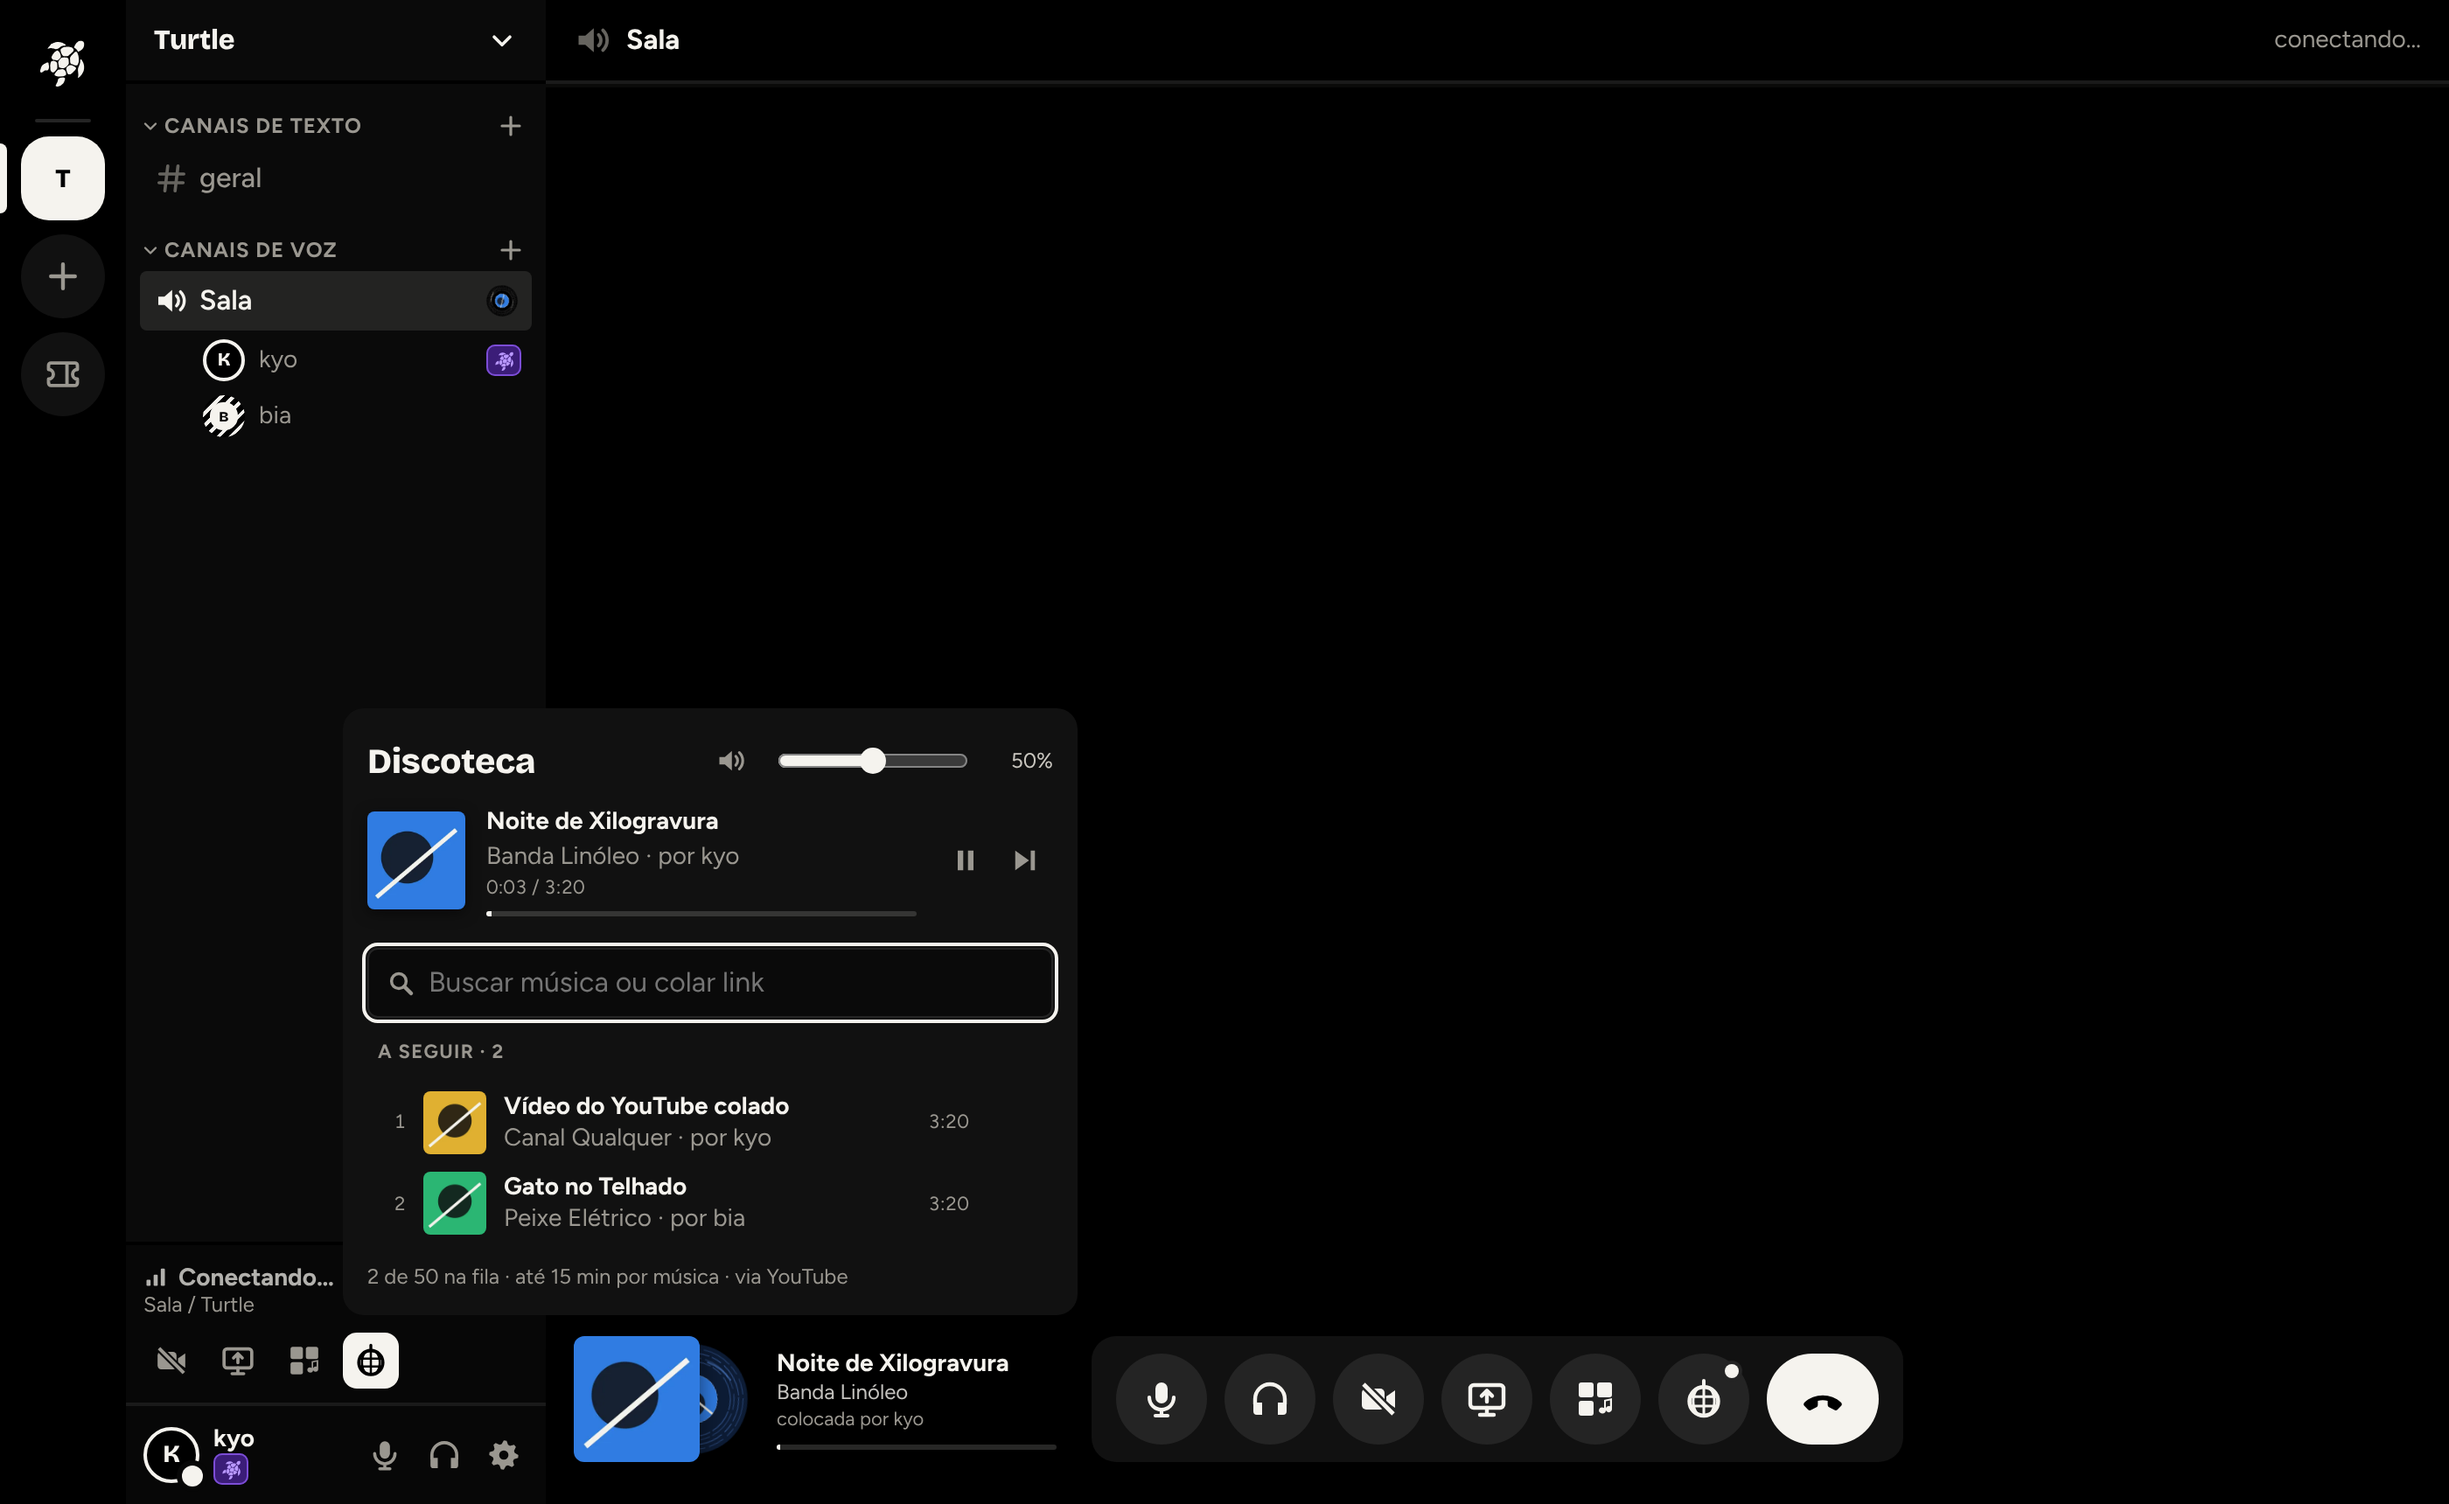
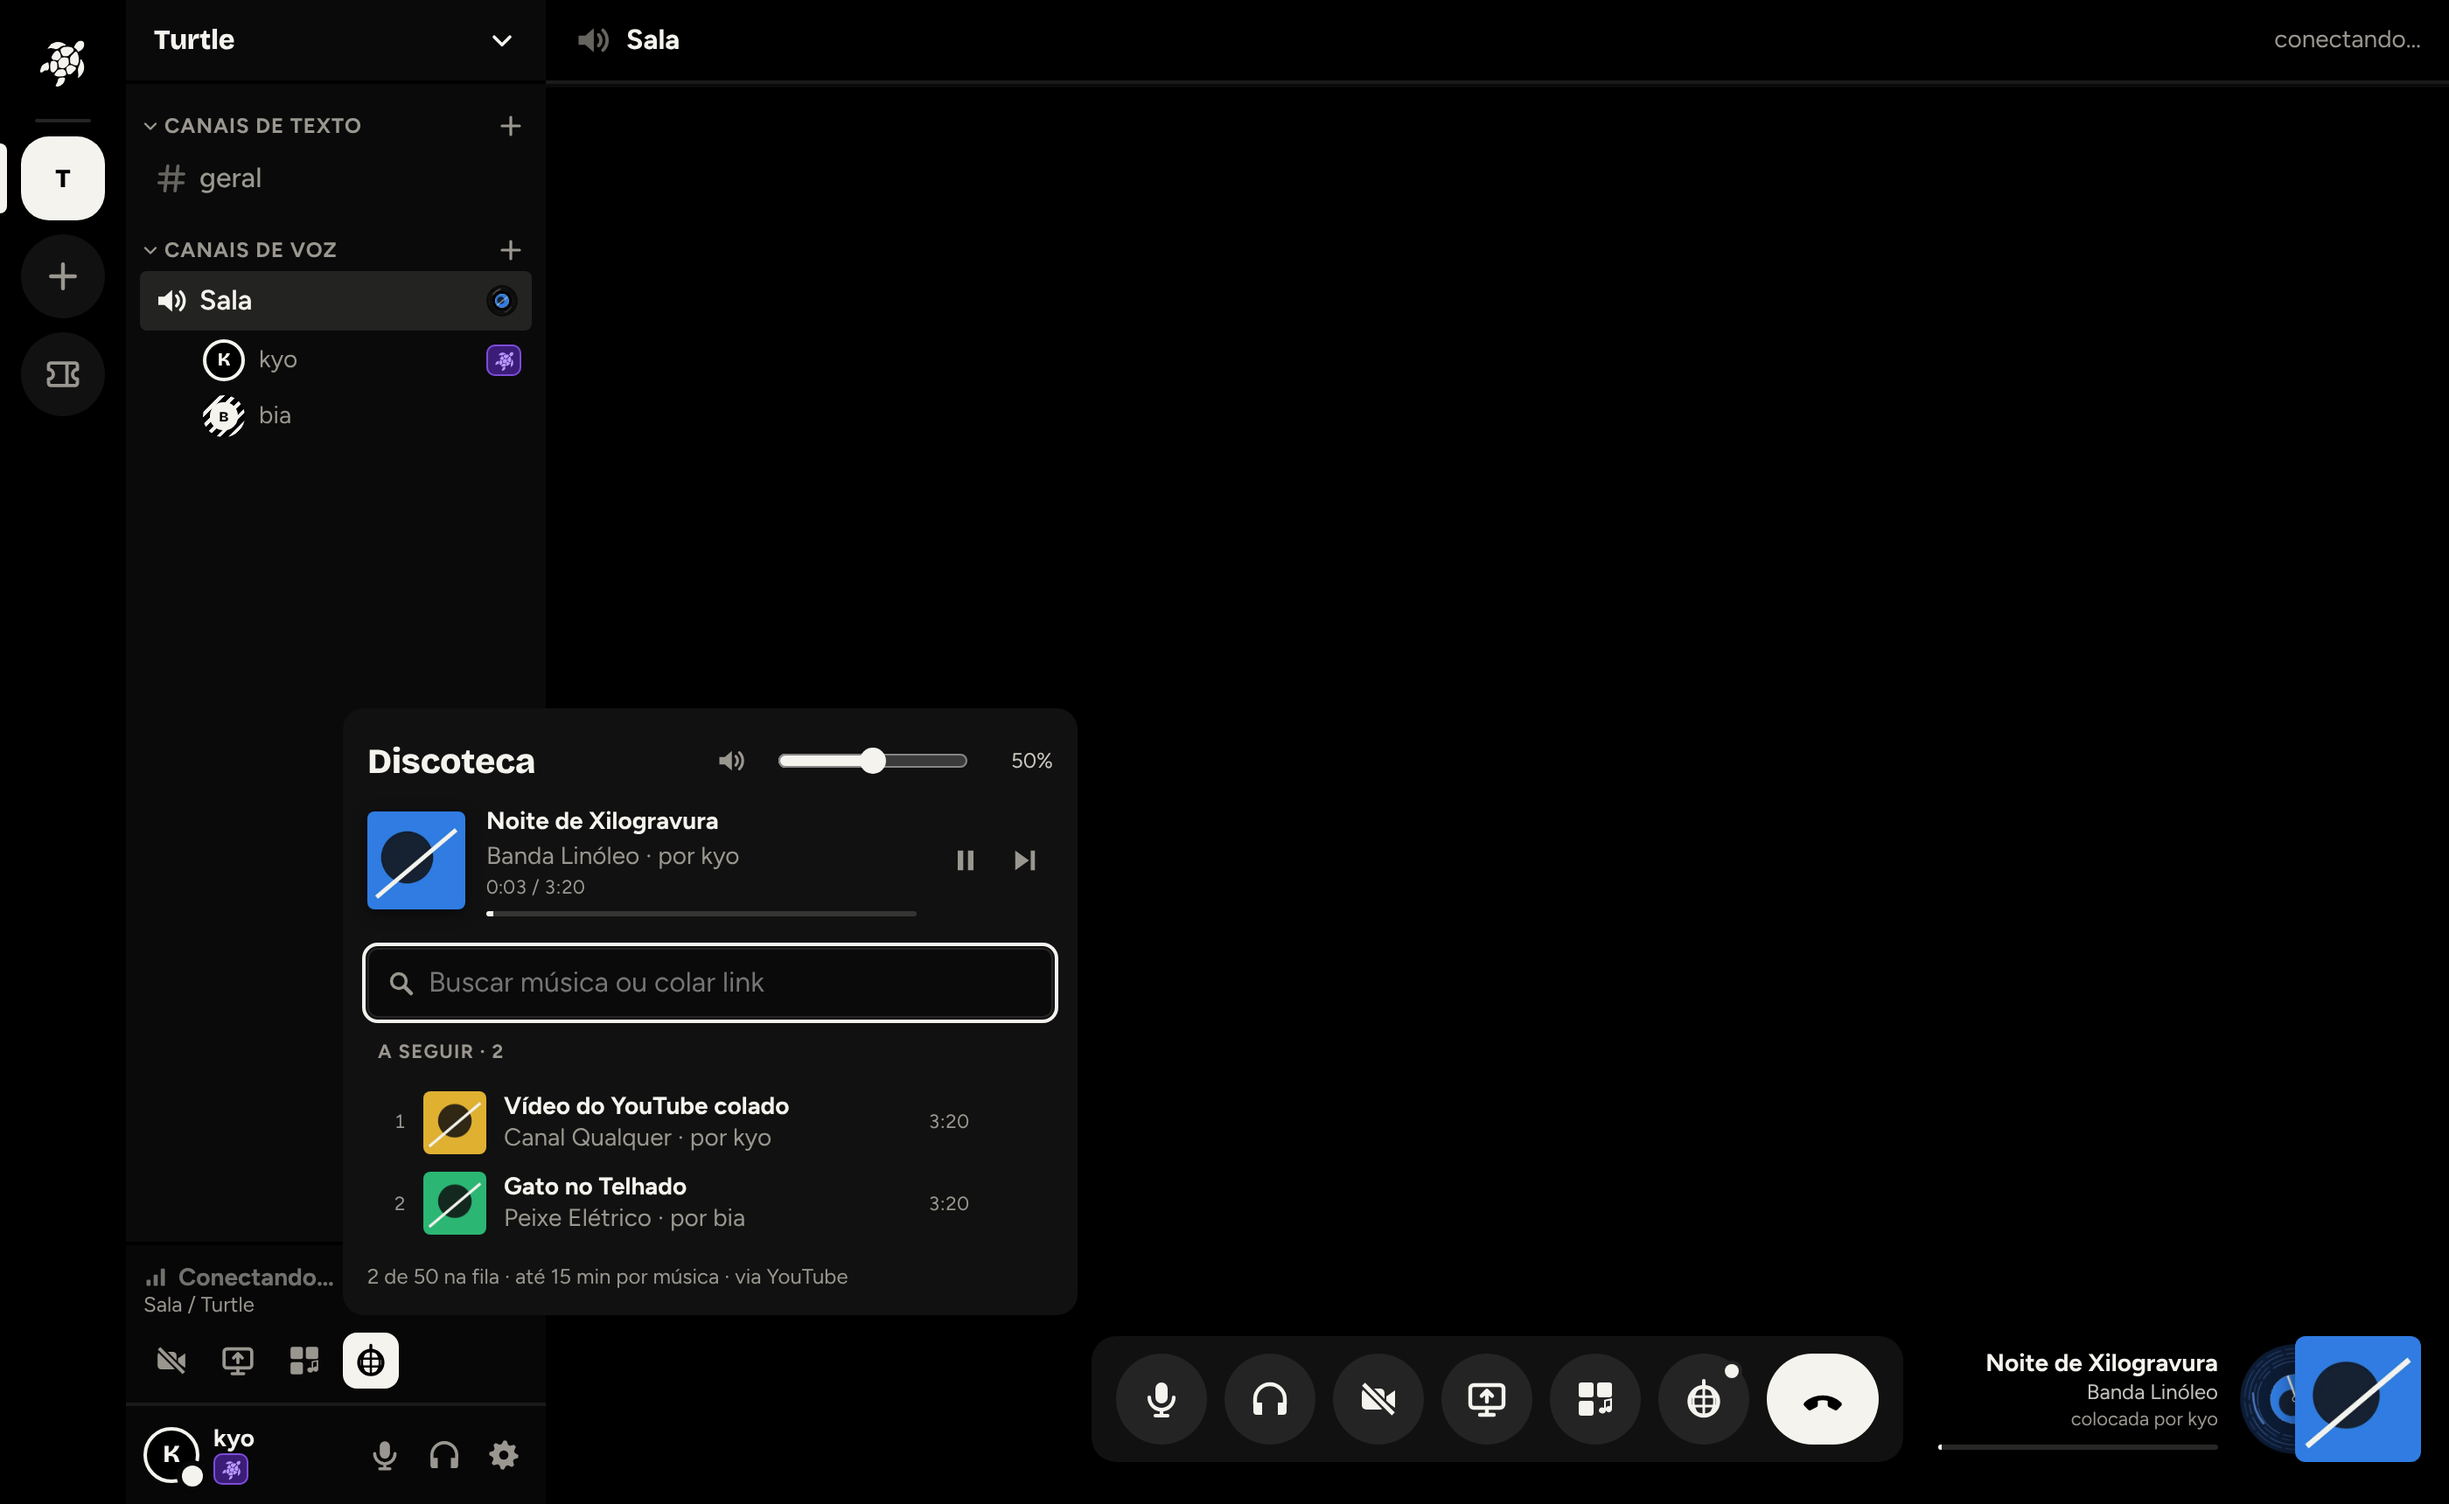
Discoteca: cartão da música no lado direito da chamada, espelhado (capa na borda, vinil para a esquerda)
Claude-Session: https://claude.ai/code/session_01NDwkfk8MRjn5FevcBrvuh5

Changed region(s): [[0.8079, 0.8628, 0.9943, 0.986], [0.2175, 0.8628, 0.4039, 0.986], [0.0621, 0.832, 0.1243, 0.8628]]

diff --git a/apps/client/src/styles.css b/apps/client/src/styles.css
@@ -1067,7 +1067,7 @@ a.auth-brand { text-decoration: none; }
 .call { container-type: inline-size; }
 .call-dock { display: grid; grid-template-columns: minmax(0, 1fr) auto minmax(0, 1fr); align-items: end; column-gap: 16px; padding: 0 16px; }
 .call-dock > .call-controls { grid-column: 2; }
-.call-dock > .jb-now { grid-column: 1; grid-row: 1; justify-self: start; margin-bottom: 24px; }
+.call-dock > .jb-now { grid-column: 3; grid-row: 1; justify-self: end; margin-bottom: 24px; }
 @container (max-width: 980px) {
   .call-dock { grid-template-columns: minmax(0, 1fr); }
   .call-dock > .call-controls { grid-column: 1; grid-row: 2; justify-self: center; }
@@ -1158,4 +1158,18 @@ button.jb-row:hover .jb-row-act { color: var(--paper); }
   .call-dock .t-icon-btn.big { width: 42px; height: 42px; }
   .call-dock .t-icon-btn.big.hangup { width: 54px; }
   .jb-now { max-width: calc(100% - 32px); }
+}
+
+/* Cartão na chamada, à direita: capa encostada na borda, vinil saindo para a esquerda, texto à esquerda dos dois. */
+.call-dock > .jb-now { flex-direction: row-reverse; text-align: right; }
+.call-dock > .jb-now .jb-now-cover { margin-left: 32px; }
+.call-dock > .jb-now .jb-now-vinyl { left: 0; }
+.call-dock > .jb-now .jb-now-text { align-items: flex-end; }
+.call-dock > .jb-now .jb-bar { margin-left: auto; }
+@container (max-width: 980px) {
+  .call-dock > .jb-now { flex-direction: row; text-align: left; }
+  .call-dock > .jb-now .jb-now-cover { margin-left: 0; }
+  .call-dock > .jb-now .jb-now-vinyl { left: 36px; }
+  .call-dock > .jb-now .jb-now-text { align-items: stretch; }
+  .call-dock > .jb-now .jb-bar { margin-left: 0; }
 }

diff --git a/docs/planos/discoteca.md b/docs/planos/discoteca.md
@@ -1,6 +1,6 @@
 # Discoteca (bot de música da chamada)
 
-Na chamada de um servidor, o botão de discoteca (globo, ao lado do soundboard) abre um painel onde quem está na chamada busca músicas (mesma busca do cartão de música do chat) ou cola links (YouTube, SoundCloud, Bandcamp, Spotify, Deezer) e todo mundo ouve junto: fila, pausar, continuar, pular, tirar da fila e volume de cada pessoa. Quem está na chamada vê no canto inferior esquerdo o cartão com a capa, o vinil girando (tingido com a cor da capa), o nome da música e quem colocou. O botão também fica no painel de voz (embaixo da lista de canais, ao lado de "Compartilhar tela"). Na barra lateral, o canal de voz com música mostra um disquinho girando no canto direito; passando o mouse (ou focando com o teclado) abre um popout com capa, música, quem colocou, progresso e a próxima da fila.
+Na chamada de um servidor, o botão de discoteca (globo, ao lado do soundboard) abre um painel onde quem está na chamada busca músicas (mesma busca do cartão de música do chat) ou cola links (YouTube, SoundCloud, Bandcamp, Spotify, Deezer) e todo mundo ouve junto: fila, pausar, continuar, pular, tirar da fila e volume de cada pessoa. Quem está na chamada vê no canto inferior direito o cartão com a capa, o vinil girando (tingido com a cor da capa), o nome da música e quem colocou. O botão também fica no painel de voz (embaixo da lista de canais, ao lado de "Compartilhar tela"). Na barra lateral, o canal de voz com música mostra um disquinho girando no canto direito; passando o mouse (ou focando com o teclado) abre um popout com capa, música, quem colocou, progresso e a próxima da fila.
 
 ![painel](discoteca/04-painel-fila.png)
 
